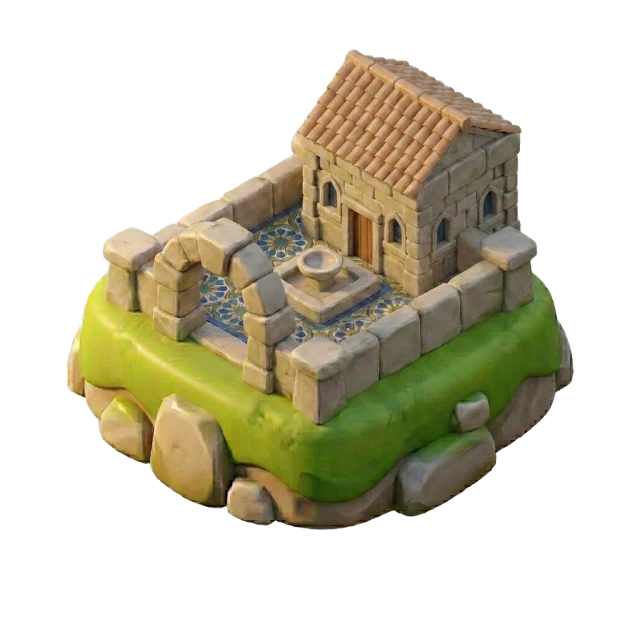
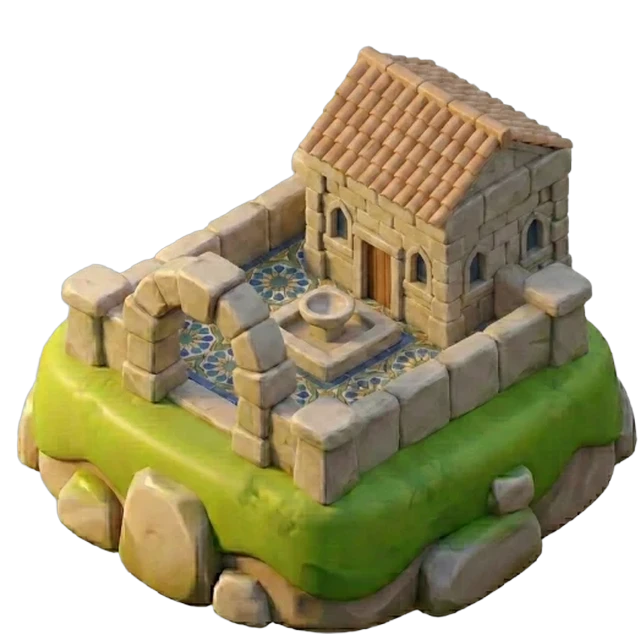
feat: a garden grows beside the finished mosque for levels 29-35
The mosque completes at letter 28, so the Letter Recognition levels had no
reward left to give. Seven garden stages now take over — blossom trees,
flower beds, a waterfall, a garden gate, a reading nook, evening lanterns
and finally a lantern-lit night — one per level, on the very same island.

Every stage was generated by editing the finished mosque image, so the
building itself never moves; only its surroundings come alive.

Also crops the twelve mosque stages to their shared content box: they all
carried ~20% dead margin, which made the mosque look small on screen.

diff --git a/src/app/mosque.tsx b/src/app/mosque.tsx
@@ -11,9 +11,11 @@ import { JuicyButton } from "@/components/ui/JuicyButton";
 import { Mascot } from "@/components/ui/Mascot";
 import { Crescent } from "@/components/ui/IslamicMotifs";
 import { LETTERS } from "@/data/letters";
+import { GARDEN_STAGE_COUNT, gardenStage } from "@/lib/garden";
 import { haptics } from "@/lib/haptics";
 import { images } from "@/lib/images";
 import { playSfx } from "@/lib/sfx";
+import { useFormsStore } from "@/stores/formsStore";
 import { useProgressStore } from "@/stores/progressStore";
 import { useSettingsStore } from "@/stores/settingsStore";
 import { useStreakStore } from "@/stores/streakStore";
@@ -22,7 +24,9 @@ export default function Mosque() {
   const { t } = useTranslation();
   const router = useRouter();
   const { width } = useWindowDimensions();
-  const WORLD = Math.min(width - 12, 392); // cami sahnesi ekranı doldurur (Sohail: çok daha büyük)
+  // Sahne ekranı doldurur. Görsellerin kenar boşluğu kırpıldı (ortak kutu), bu yüzden
+  // aynı genişlikte cami gözle görülür biçimde daha büyük görünüyor.
+  const WORLD = Math.min(width - 4, 430);
 
   const completed = useProgressStore((s) => LETTERS.filter((l) => s.isLetterComplete(l.id)).length);
   const mosqueName = useSettingsStore((s) => s.mosqueName);
@@ -36,11 +40,26 @@ export default function Mosque() {
   const STAGES = images.mosqueStages.length;
   const stageIdx = Math.min(STAGES - 1, Math.max(0, completed - 1));
   const built = Math.min(completed, STAGES);
-  const progress = built / STAGES;
   const allDone = built >= STAGES;
 
+  // Cami 28. harfte biter; sonrası Harf Tanıma seviyeleri için BAHÇE ödülü devralır.
+  const formsCompleted = useFormsStore((s) => s.completed);
+  const garden = allDone ? gardenStage(formsCompleted) : 0;
+  const inGarden = garden > 0;
+
+  const progress = inGarden ? garden / GARDEN_STAGE_COUNT : built / STAGES;
+  const gardenDone = garden >= GARDEN_STAGE_COUNT;
+
   // Pırıl'ın balonu: ilerlemeye göre teşvik (artık fener/çeşme görevi yok — cami kendi büyür)
-  const promptKey = allDone ? "mosque.allReady" : completed === 0 ? "mosque.startLearning" : "mosque.growing";
+  const promptKey = inGarden
+    ? gardenDone
+      ? "mosque.gardenReady"
+      : "mosque.gardenGrowing"
+    : allDone
+      ? "mosque.allReady"
+      : completed === 0
+        ? "mosque.startLearning"
+        : "mosque.growing";
 
   const displayName = mosqueName || t("mosque.defaultName");
   const [editing, setEditing] = useState(false);
@@ -57,12 +76,17 @@ export default function Mosque() {
     playSfx("correct_ding");
   };
 
-  // Aşama ilerleyince ses çal
+  // Aşama ilerleyince ses çal (cami parçası ya da yeni bahçe adımı)
   const prevStage = useRef(stageIdx);
+  const prevGarden = useRef(garden);
   useEffect(() => {
     if (completed > 0 && stageIdx > prevStage.current) playSfx("mosque_build");
     prevStage.current = stageIdx;
   }, [stageIdx, completed]);
+  useEffect(() => {
+    if (garden > prevGarden.current) playSfx("mosque_build");
+    prevGarden.current = garden;
+  }, [garden]);
 
   // Pırıl camide "yaşar" — dokununca zıplar (companion bağı)
   const pirilJump = useSharedValue(0);
@@ -125,7 +149,7 @@ export default function Mosque() {
           style={{ shadowColor: "#1462B5", shadowOpacity: 0.1, shadowRadius: 5, shadowOffset: { width: 0, height: 3 } }}
         >
           <Text style={{ fontFamily: "Nunito_700Bold", fontSize: 15, color: "#34618C" }}>
-            {t("mosque.subtitle")}
+            {t(inGarden ? "mosque.gardenSubtitle" : "mosque.subtitle")}
           </Text>
         </View>
 
@@ -133,9 +157,9 @@ export default function Mosque() {
         <View className="my-2 flex-1 items-center justify-center">
           <View style={{ width: WORLD, height: WORLD }}>
             <Floating distance={10} duration={2400}>
-              <Animated.View key={stageIdx} entering={FadeIn.duration(500)}>
+              <Animated.View key={inGarden ? `g${garden}` : `m${stageIdx}`} entering={FadeIn.duration(500)}>
                 <Image
-                  source={images.mosqueStages[stageIdx]}
+                  source={inGarden ? images.gardenStages[garden - 1] : images.mosqueStages[stageIdx]}
                   style={{ width: WORLD, height: WORLD, opacity: completed === 0 ? 0.4 : 1 }}
                   contentFit="contain"
                 />
@@ -165,7 +189,9 @@ export default function Mosque() {
           <View className="h-full rounded-full bg-accent" style={{ width: `${Math.round(progress * 100)}%` }} />
         </View>
         <Text style={{ fontFamily: "Fredoka_700Bold", fontSize: 16, color: "#4A5663", textAlign: "center", marginTop: 8 }}>
-          {t("mosque.parts", { built, total: STAGES })}
+          {inGarden
+            ? t("mosque.gardenParts", { built: garden, total: GARDEN_STAGE_COUNT })
+            : t("mosque.parts", { built, total: STAGES })}
         </Text>
         <Text style={{ fontFamily: "Nunito_700Bold", fontSize: 13, color: "#7A8593", textAlign: "center", marginTop: 2 }}>
           {t("mosque.lettersLearned", { n: completed, total: LETTERS.length })}

diff --git a/src/features/mosque/MosqueBuild.tsx b/src/features/mosque/MosqueBuild.tsx
@@ -35,10 +35,13 @@ export function MosqueBuild({
   visible,
   stageIndex,
   onDone,
+  variant = "mosque",
 }: {
   visible: boolean;
   stageIndex: number;
   onDone: () => void;
+  /** "garden": cami 28'de bitti, Harf Tanıma seviyeleri bahçeyi büyütüyor. */
+  variant?: "mosque" | "garden";
 }) {
   const { t } = useTranslation();
   const hapticsEnabled = useSettingsStore((s) => s.hapticsEnabled);
@@ -57,9 +60,14 @@ export function MosqueBuild({
   const marker = useSharedValue(0); // "dokun" işareti nabzı
   const pirilBounce = useSharedValue(0);
 
-  const idx = Math.min(Math.max(stageIndex, 0), images.mosqueStages.length - 1);
-  const hasPrev = idx > 0;
-  const prevIdx = hasPrev ? idx - 1 : idx;
+  const isGarden = variant === "garden";
+  const STAGE_IMAGES = isGarden ? images.gardenStages : images.mosqueStages;
+  const idx = Math.min(Math.max(stageIndex, 0), STAGE_IMAGES.length - 1);
+  // Bahçenin ilk adımında "önceki" görsel tamamlanmış CAMİ olmalı — çocuk
+  // caminin yerinde durduğunu, sadece etrafının canlandığını görsün.
+  const hasPrev = idx > 0 || isGarden;
+  const prevSource =
+    idx > 0 ? STAGE_IMAGES[idx - 1] : images.mosqueStages[images.mosqueStages.length - 1];
 
   const doBuild = () => {
     if (builtRef.current) return;
@@ -67,7 +75,8 @@ export function MosqueBuild({
     setBuilt(true);
     playSfx("mosque_build");
     playSfx("star_earned", 0.7);
-    setTimeout(() => playNarration(language, "mosqueBuilt"), 300); // Pırıl: "Bak, camin büyüdü!"
+    // Pırıl: "Bak, camin büyüdü!" — bahçe adımları için henüz seslendirme yok.
+    if (!isGarden) setTimeout(() => playNarration(language, "mosqueBuilt"), 300);
     if (hapticsEnabled) haptics.celebrate();
     newOpacity.value = withTiming(1, { duration: GROW, easing: Easing.out(Easing.cubic) });
     if (hasPrev) prevOpacity.value = withTiming(0, { duration: GROW * 0.7 });
@@ -151,7 +160,7 @@ export function MosqueBuild({
           ]}
         >
           <Text style={{ fontFamily: "Fredoka_700Bold", fontSize: 20, color: "#208AEF", textAlign: "center", marginBottom: 6 }}>
-            {built ? t("mosque.builtCheer") : t("mosque.building")}
+            {built ? t("mosque.builtCheer") : t(isGarden ? "mosque.gardenBuilding" : "mosque.building")}
           </Text>
           <View style={{ width: BOX, height: BOX, alignItems: "center", justifyContent: "center" }}>
             {/* sıcak parıltı (inşa anı) */}
@@ -164,12 +173,12 @@ export function MosqueBuild({
             {/* önceki aşama */}
             {hasPrev && (
               <Animated.View style={[{ position: "absolute", width: IMG, height: IMG }, prevStyle]}>
-                <Image source={images.mosqueStages[prevIdx]} style={{ width: IMG, height: IMG }} contentFit="contain" />
+                <Image source={prevSource} style={{ width: IMG, height: IMG }} contentFit="contain" />
               </Animated.View>
             )}
             {/* yeni aşama */}
             <Animated.View style={[{ position: "absolute", width: IMG, height: IMG }, newStyle]}>
-              <Image source={images.mosqueStages[idx]} style={{ width: IMG, height: IMG }} contentFit="contain" />
+              <Image source={STAGE_IMAGES[idx]} style={{ width: IMG, height: IMG }} contentFit="contain" />
             </Animated.View>
 
             {/* "DOKUN" işareti (inşadan önce) */}
@@ -180,7 +189,7 @@ export function MosqueBuild({
                   markerStyle,
                 ]}
               >
-                <Text style={{ fontSize: 34 }}>🧱</Text>
+                <Text style={{ fontSize: 34 }}>{isGarden ? "🌱" : "🧱"}</Text>
               </Animated.View>
             )}
 

diff --git a/src/app/forms/[groupId].tsx b/src/app/forms/[groupId].tsx
@@ -20,6 +20,8 @@ import { images } from "@/lib/images";
 import { playLetter, playSfx } from "@/lib/sfx";
 import { useFormsStore } from "@/stores/formsStore";
 import { useStageStore } from "@/stores/stageStore";
+import { MosqueBuild } from "@/features/mosque/MosqueBuild";
+import { gardenStage } from "@/lib/garden";
 
 /**
  * "Harf Tanıma" seviyesi — haritada 29-35 olarak görünen kısa derslerden biri
@@ -43,6 +45,7 @@ export default function FormsLevel() {
   const [idx, setIdx] = useState(0);
   const [taught, setTaught] = useState(false);
   const [celebrate, setCelebrate] = useState(false);
+  const [gardenVisible, setGardenVisible] = useState(false);
 
   const letterId = letters[idx];
   const goHome = () => router.replace("/home");
@@ -60,6 +63,12 @@ export default function FormsLevel() {
     } else {
       setCelebrate(true);
     }
+  };
+
+  // Seviye bitti → bahçe büyüme anı (cami 28'de bitti, ödül artık bahçe).
+  const onCelebrationDone = () => {
+    setCelebrate(false);
+    setGardenVisible(true);
   };
 
   if (!letters.length) {
@@ -159,7 +168,13 @@ export default function FormsLevel() {
 
       {!showChapterIntro && <StageHost size={140} onReplay={() => letterId && playLetter(letterId)} />}
       <CheerOverlay />
-      <Celebration visible={celebrate} onDone={goHome} />
+      <Celebration visible={celebrate} onDone={onCelebrationDone} />
+      <MosqueBuild
+        visible={gardenVisible}
+        variant="garden"
+        stageIndex={gardenStage(useFormsStore.getState().completed) - 1}
+        onDone={goHome}
+      />
     </GradientBg>
   );
 }

diff --git a/src/app/home.tsx b/src/app/home.tsx
@@ -22,6 +22,7 @@ import { FORMS_GROUPS, formsGroup } from "@/data/formsLessons";
 import { LETTERS } from "@/data/letters";
 
 import type { Letter } from "@/data/types";
+import { GARDEN_STAGE_COUNT, gardenStage } from "@/lib/garden";
 import { images } from "@/lib/images";
 import { playSfx, syncMusicWithSetting } from "@/lib/sfx";
 import { useFormsStore } from "@/stores/formsStore";
@@ -184,7 +185,13 @@ function BottomNav() {
   // Cami ilerlemesi → "Mosque" sekmesinde minik rozet (büyüyen cami hatırlatıcısı)
   const mosqueDone = useProgressStore((s) => LETTERS.filter((l) => s.isLetterComplete(l.id)).length);
   const mosqueStages = images.mosqueStages.length;
-  const mosquePct = Math.round((Math.min(mosqueDone, mosqueStages) / mosqueStages) * 100);
+  // Cami 28'de biter; sonrası bahçe ödülü — rozet o zaman bahçe yüzdesini gösterir.
+  const formsDone = useFormsStore((s) => s.completed);
+  const garden = mosqueDone >= LETTERS.length ? gardenStage(formsDone) : 0;
+  const mosquePct =
+    mosqueDone >= LETTERS.length
+      ? Math.round((garden / GARDEN_STAGE_COUNT) * 100)
+      : Math.round((Math.min(mosqueDone, mosqueStages) / mosqueStages) * 100);
   const items: { label: string; src: number; onPress: () => void; badge?: number }[] = [
     { label: t("nav.home"), src: images.icHome, onPress: () => {} },
     { label: t("nav.lessons"), src: images.icLessons, onPress: () => router.push("/harfler") },

diff --git a/src/lib/images.ts b/src/lib/images.ts
@@ -29,6 +29,19 @@ export const images = {
     require("@/assets/illustrations/mosque/mosque_stage_12.webp"),
   ],
 
+  // Bahçe — cami 28. harfte tamamlandıktan SONRAKİ ödül (Harf Tanıma 29-35).
+  // Aynı ada, her seviyede bir adım daha canlanır: ağaçlar → çiçekler → şelale →
+  // bahçe kapısı → okuma köşesi → akşam kandilleri → yıldızlı gece.
+  gardenStages: [
+    require("@/assets/illustrations/garden/garden_stage_1.webp"),
+    require("@/assets/illustrations/garden/garden_stage_2.webp"),
+    require("@/assets/illustrations/garden/garden_stage_3.webp"),
+    require("@/assets/illustrations/garden/garden_stage_4.webp"),
+    require("@/assets/illustrations/garden/garden_stage_5.webp"),
+    require("@/assets/illustrations/garden/garden_stage_6.webp"),
+    require("@/assets/illustrations/garden/garden_stage_7.webp"),
+  ],
+
   // Ödüller
   star: require("@/assets/illustrations/rewards/star.webp"),
   trophy: require("@/assets/illustrations/rewards/trophy.webp"),

diff --git a/src/lib/garden.ts b/src/lib/garden.ts
@@ -1,0 +1,18 @@
+import { FORMS_GROUPS } from "@/data/formsLessons";
+import { images } from "@/lib/images";
+
+/**
+ * "Bahçe" ödülü — cami 28. harfte BİTİYOR, ondan sonrası boş kalmasın diye.
+ *
+ * Harf Tanıma bölümündeki 7 seviyenin (29-35) her biri tamamlanınca aynı adada
+ * bir şey daha canlanır: çiçekli ağaçlar → çiçek tarlaları ve kuşlar → şelale →
+ * bahçe kapısı → okuma köşesi → akşam kandilleri → yıldızlı gece.
+ * Hikâye: "Cami bitti, şimdi etrafı canlanıyor."
+ */
+export const GARDEN_STAGE_COUNT = images.gardenStages.length;
+
+/** Tamamlanmış Harf Tanıma seviyesi sayısı = açılmış bahçe aşaması (0-7). */
+export function gardenStage(formsCompleted: number[]): number {
+  const done = new Set(formsCompleted);
+  return FORMS_GROUPS.filter((g) => g.every((id) => done.has(id))).length;
+}
